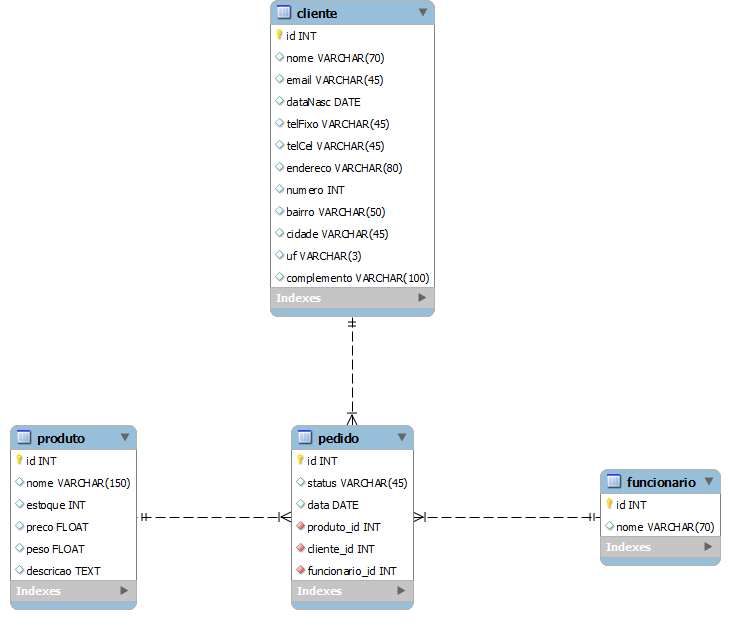
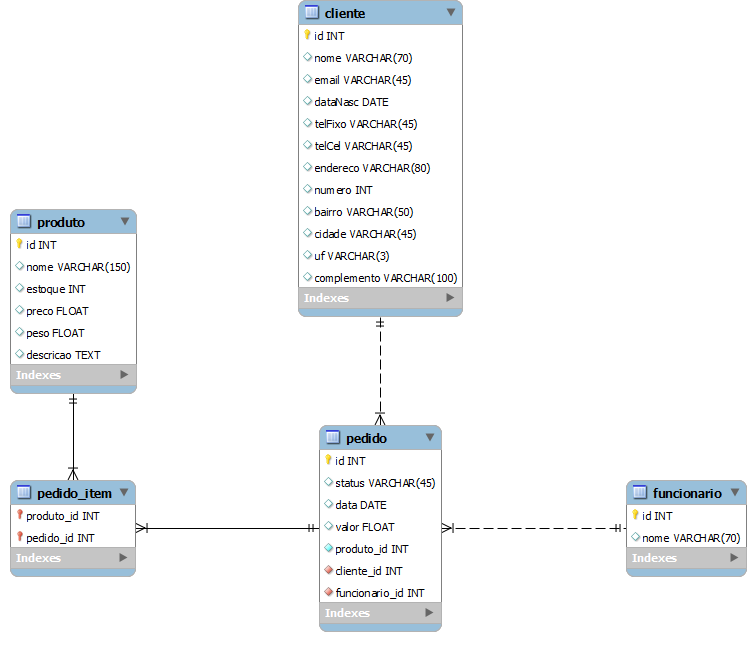
Banco de dados atualizado.

diff --git a/src/model/Pedido.java b/src/model/Pedido.java
@@ -1,8 +1,10 @@
 package model;
-// Generated Jun 24, 2014 1:41:25 AM by Hibernate Tools 3.6.0
+// Generated Jun 25, 2014 6:32:55 PM by Hibernate Tools 3.6.0
 
 
 import java.util.Date;
+import java.util.HashSet;
+import java.util.Set;
 
 /**
  * Pedido generated by hbm2java
@@ -11,27 +13,31 @@ public class Pedido  implements java.io.Serializable {
 
 
      private Integer id;
-     private Produto produto;
      private Cliente cliente;
      private Funcionario funcionario;
      private String status;
      private Date data;
+     private Float valor;
+     private int produtoId;
+     private Set produtos = new HashSet(0);
 
     public Pedido() {
     }
 
 	
-    public Pedido(Produto produto, Cliente cliente, Funcionario funcionario) {
-        this.produto = produto;
+    public Pedido(Cliente cliente, Funcionario funcionario, int produtoId) {
         this.cliente = cliente;
         this.funcionario = funcionario;
+        this.produtoId = produtoId;
     }
-    public Pedido(Produto produto, Cliente cliente, Funcionario funcionario, String status, Date data) {
-       this.produto = produto;
+    public Pedido(Cliente cliente, Funcionario funcionario, String status, Date data, Float valor, int produtoId, Set produtos) {
        this.cliente = cliente;
        this.funcionario = funcionario;
        this.status = status;
        this.data = data;
+       this.valor = valor;
+       this.produtoId = produtoId;
+       this.produtos = produtos;
     }
    
     public Integer getId() {
@@ -40,13 +46,6 @@ public class Pedido  implements java.io.Serializable {
     
     public void setId(Integer id) {
         this.id = id;
-    }
-    public Produto getProduto() {
-        return this.produto;
-    }
-    
-    public void setProduto(Produto produto) {
-        this.produto = produto;
     }
     public Cliente getCliente() {
         return this.cliente;
@@ -75,6 +74,27 @@ public class Pedido  implements java.io.Serializable {
     
     public void setData(Date data) {
         this.data = data;
+    }
+    public Float getValor() {
+        return this.valor;
+    }
+    
+    public void setValor(Float valor) {
+        this.valor = valor;
+    }
+    public int getProdutoId() {
+        return this.produtoId;
+    }
+    
+    public void setProdutoId(int produtoId) {
+        this.produtoId = produtoId;
+    }
+    public Set getProdutos() {
+        return this.produtos;
+    }
+    
+    public void setProdutos(Set produtos) {
+        this.produtos = produtos;
     }
 
 

diff --git a/src/model/Funcionario.java b/src/model/Funcionario.java
@@ -1,5 +1,5 @@
 package model;
-// Generated Jun 24, 2014 1:41:25 AM by Hibernate Tools 3.6.0
+// Generated Jun 25, 2014 6:32:55 PM by Hibernate Tools 3.6.0
 
 
 import java.util.HashSet;

diff --git a/src/model/Produto.java b/src/model/Produto.java
@@ -1,5 +1,5 @@
 package model;
-// Generated Jun 24, 2014 1:41:25 AM by Hibernate Tools 3.6.0
+// Generated Jun 25, 2014 6:32:55 PM by Hibernate Tools 3.6.0
 
 
 import java.util.HashSet;

diff --git a/src/model/Cliente.java b/src/model/Cliente.java
@@ -1,5 +1,5 @@
 package model;
-// Generated Jun 24, 2014 1:41:25 AM by Hibernate Tools 3.6.0
+// Generated Jun 25, 2014 6:32:55 PM by Hibernate Tools 3.6.0
 
 
 import java.util.Date;
